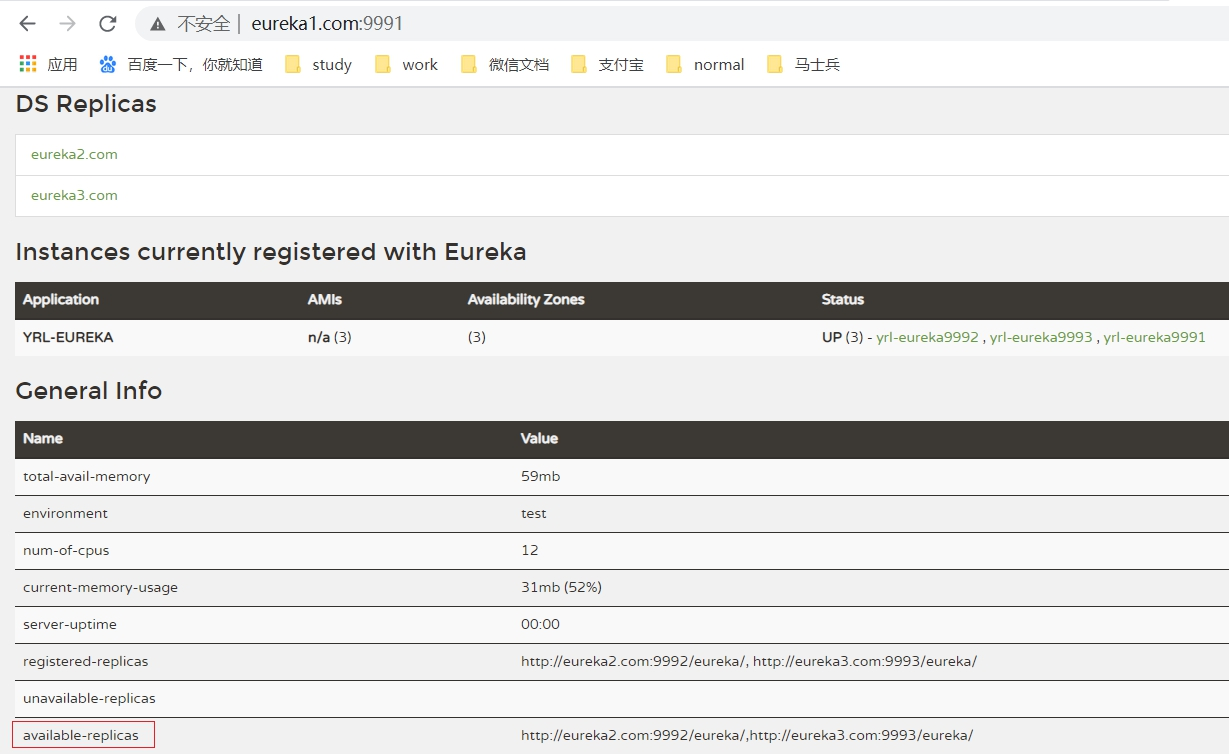
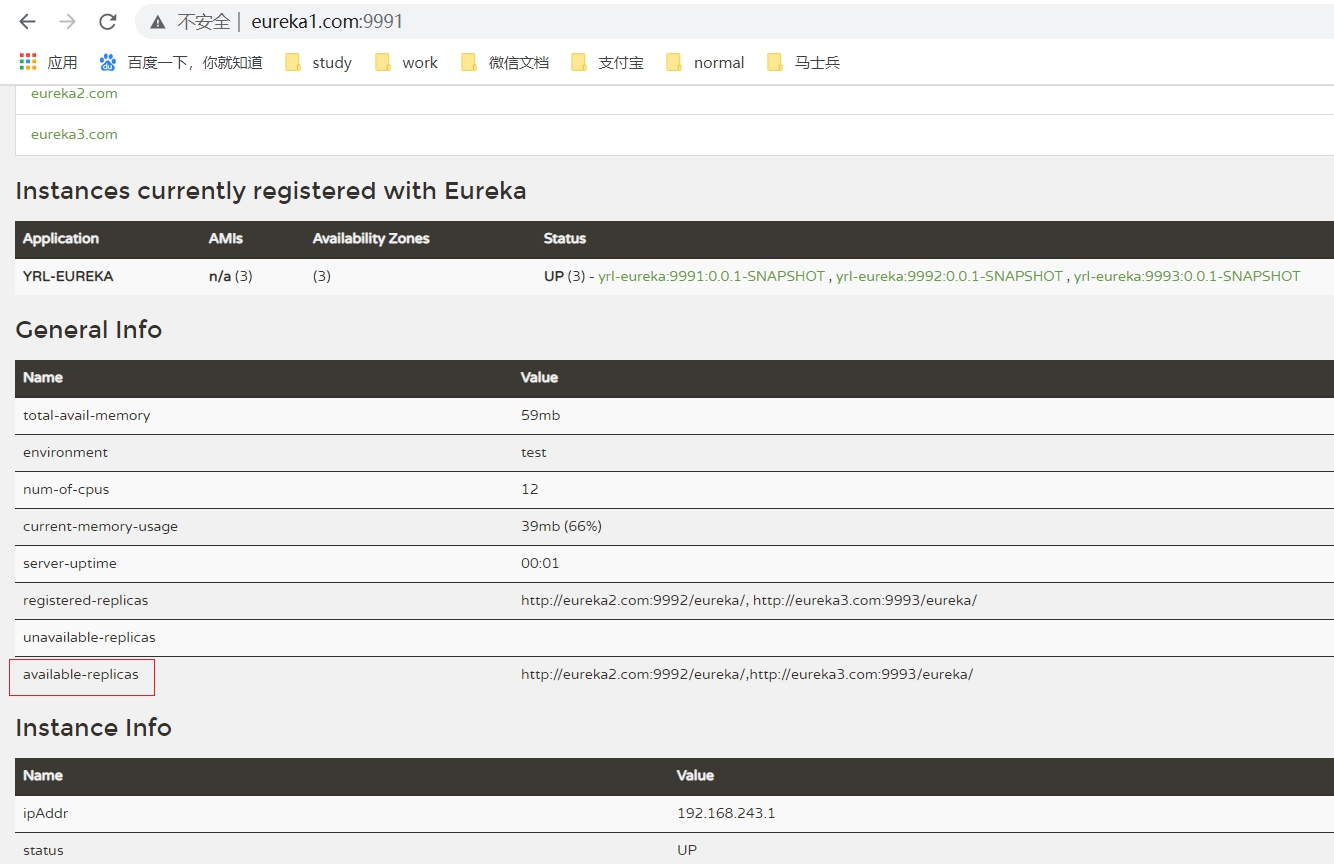
Site updated: 2020-12-26 10:41:42

Changed region(s): [[0.0, 0.0, 1.0, 0.7931], [0.0, 0.8236, 1.0, 1.0]]

diff --git a/2020/12/06/eureka集群安装/index.html b/2020/12/06/eureka集群安装/index.html
@@ -30,7 +30,7 @@
 <meta property="og:locale" content="zh_CN">
 <meta property="og:image" content="http://yrlzero.gitee.io/images/cloud/eureka/eureka%E9%9B%86%E7%BE%A4%E6%8E%A7%E5%88%B6%E5%8F%B0.jpg">
 <meta property="article:published_time" content="2020-12-06T09:12:52.599Z">
-<meta property="article:modified_time" content="2020-12-26T02:30:42.509Z">
+<meta property="article:modified_time" content="2020-12-26T02:41:25.399Z">
 <meta property="article:author" content="yrl">
 <meta property="article:tag" content="eureka">
 <meta property="article:tag" content="注册中心">
@@ -219,7 +219,7 @@
                   <i class="far fa-calendar-check"></i>
                 </span>
                 <span class="post-meta-item-text">更新于</span>
-                <time title="修改时间：2020-12-26 10:30:42" itemprop="dateModified" datetime="2020-12-26T10:30:42+08:00">2020-12-26</time>
+                <time title="修改时间：2020-12-26 10:41:25" itemprop="dateModified" datetime="2020-12-26T10:41:25+08:00">2020-12-26</time>
               </span>
             <span class="post-meta-item">
               <span class="post-meta-item-icon">
@@ -248,11 +248,11 @@
 
 <h3 id="2-启动类添加注解"><a href="#2-启动类添加注解" class="headerlink" title="2. 启动类添加注解"></a>2. 启动类添加注解</h3><figure class="highlight java"><table><tr><td class="gutter"><pre><span class="line">1</span><br></pre></td><td class="code"><pre><span class="line"><span class="meta">@EnableEurekaServer</span></span><br></pre></td></tr></table></figure>
 
-<h3 id="3-1-节点一的yml配置"><a href="#3-1-节点一的yml配置" class="headerlink" title="3.1 节点一的yml配置"></a>3.1 节点一的yml配置</h3><figure class="highlight yml"><table><tr><td class="gutter"><pre><span class="line">1</span><br><span class="line">2</span><br><span class="line">3</span><br><span class="line">4</span><br><span class="line">5</span><br><span class="line">6</span><br><span class="line">7</span><br><span class="line">8</span><br><span class="line">9</span><br><span class="line">10</span><br><span class="line">11</span><br><span class="line">12</span><br><span class="line">13</span><br><span class="line">14</span><br><span class="line">15</span><br><span class="line">16</span><br><span class="line">17</span><br><span class="line">18</span><br><span class="line">19</span><br><span class="line">20</span><br><span class="line">21</span><br><span class="line">22</span><br><span class="line">23</span><br><span class="line">24</span><br><span class="line">25</span><br><span class="line">26</span><br><span class="line">27</span><br><span class="line">28</span><br><span class="line">29</span><br><span class="line">30</span><br><span class="line">31</span><br><span class="line">32</span><br><span class="line">33</span><br><span class="line">34</span><br></pre></td><td class="code"><pre><span class="line"><span class="attr">server:</span></span><br><span class="line">  <span class="attr">port:</span> <span class="number">9991</span></span><br><span class="line">  <span class="attr">servlet:</span></span><br><span class="line">    <span class="attr">context-path:</span> <span class="string">/</span></span><br><span class="line"><span class="attr">spring:</span></span><br><span class="line">  <span class="attr">application:</span></span><br><span class="line">    <span class="attr">name:</span> <span class="string">yrl-eureka</span></span><br><span class="line">  <span class="attr">security:</span></span><br><span class="line">    <span class="attr">user:</span></span><br><span class="line">      <span class="attr">name:</span> <span class="string">eureka</span></span><br><span class="line">      <span class="attr">password:</span> <span class="string">eureka</span></span><br><span class="line"><span class="attr">eureka:</span></span><br><span class="line">  <span class="attr">instance:</span></span><br><span class="line">    <span class="attr">hostname:</span> <span class="string">eureka1.com</span> <span class="comment">#eureka服务端主机名称，每个启动的实例应该配置不同</span></span><br><span class="line"><span class="comment">#    instance-id: yrl-eureka9991 # 不加的话，默认是主机名+服务名+端口，加上之后屏蔽服务器相关信息</span></span><br><span class="line">    <span class="attr">instance-id:</span> <span class="string">$&#123;spring.cloud.client.ipAddress&#125;:$&#123;spring.application.name&#125;:$&#123;server.port&#125;:@project.version@</span> <span class="comment"># 不加的话，默认是主机名+服务名+端口，加上之后屏蔽服务器相关信息</span></span><br><span class="line">    <span class="attr">prefer-ip-address:</span> <span class="literal">true</span></span><br><span class="line">    <span class="attr">metadata-map:</span></span><br><span class="line">      <span class="attr">test:</span> <span class="number">123</span></span><br><span class="line">  <span class="attr">client:</span></span><br><span class="line">    <span class="comment"># false表示不向注册中心注册自己</span></span><br><span class="line">    <span class="attr">register-with-eureka:</span> <span class="literal">true</span></span><br><span class="line">    <span class="comment">#false 本身就是注册中心，不需要抓取服务</span></span><br><span class="line">    <span class="attr">fetch-registry:</span> <span class="literal">true</span></span><br><span class="line">    <span class="comment">#设置与注册中心交互的地址</span></span><br><span class="line">    <span class="attr">service-url:</span></span><br><span class="line">      <span class="attr">defaultZone:</span> <span class="string">http://$&#123;spring.security.user.name&#125;:$&#123;spring.security.user.password&#125;@eureka2.com:9992/eureka/,http://$&#123;spring.security.user.name&#125;:$&#123;spring.security.user.password&#125;@eureka3.com:9993/eureka/</span></span><br><span class="line">    <span class="attr">registry-fetch-interval-seconds:</span> <span class="number">30</span> <span class="comment">#表示eureka客户端间隔多久去拉取服务注册信息，默认30s，如果要迅速获取服务注册状态，可以减小该值</span></span><br><span class="line">  <span class="attr">server:</span></span><br><span class="line">    <span class="attr">enable-self-preservation:</span> <span class="literal">false</span> <span class="comment"># 心跳保护机制，默认开启，微服务少的情况下关闭，剔除挂掉的节点；微服务多的情况下开启，防止网络抖动节点心跳丢失而被剔除</span></span><br><span class="line">    <span class="attr">eviction-interval-timer-in-ms:</span> <span class="number">1000</span> <span class="comment"># 逐出实例时间,默认60 * 1000（清理无效节点的时间间隔）</span></span><br><span class="line">    <span class="attr">renewal-percent-threshold:</span> <span class="number">0.85</span> <span class="comment">#自我保护机制触发的阈值，默认0.85</span></span><br><span class="line">    <span class="attr">use-read-only-response-cache:</span> <span class="literal">false</span> <span class="comment">#是否使用从readOnly读取注册表，默认true,三级缓存机制保证高可用，但是一致性减弱了</span></span><br><span class="line">    <span class="attr">response-cache-update-interval-ms:</span> <span class="number">1000</span> <span class="comment"># readwrite 和readOnly 同步时间间隔，默认30 * 1000</span></span><br></pre></td></tr></table></figure>
+<h3 id="3-1-节点一的yml配置"><a href="#3-1-节点一的yml配置" class="headerlink" title="3.1 节点一的yml配置"></a>3.1 节点一的yml配置</h3><figure class="highlight yml"><table><tr><td class="gutter"><pre><span class="line">1</span><br><span class="line">2</span><br><span class="line">3</span><br><span class="line">4</span><br><span class="line">5</span><br><span class="line">6</span><br><span class="line">7</span><br><span class="line">8</span><br><span class="line">9</span><br><span class="line">10</span><br><span class="line">11</span><br><span class="line">12</span><br><span class="line">13</span><br><span class="line">14</span><br><span class="line">15</span><br><span class="line">16</span><br><span class="line">17</span><br><span class="line">18</span><br><span class="line">19</span><br><span class="line">20</span><br><span class="line">21</span><br><span class="line">22</span><br><span class="line">23</span><br><span class="line">24</span><br><span class="line">25</span><br><span class="line">26</span><br><span class="line">27</span><br><span class="line">28</span><br><span class="line">29</span><br><span class="line">30</span><br><span class="line">31</span><br><span class="line">32</span><br><span class="line">33</span><br><span class="line">34</span><br></pre></td><td class="code"><pre><span class="line"><span class="attr">server:</span></span><br><span class="line">  <span class="attr">port:</span> <span class="number">9991</span></span><br><span class="line">  <span class="attr">servlet:</span></span><br><span class="line">    <span class="attr">context-path:</span> <span class="string">/</span></span><br><span class="line"><span class="attr">spring:</span></span><br><span class="line">  <span class="attr">application:</span></span><br><span class="line">    <span class="attr">name:</span> <span class="string">yrl-eureka</span></span><br><span class="line">  <span class="attr">security:</span></span><br><span class="line">    <span class="attr">user:</span></span><br><span class="line">      <span class="attr">name:</span> <span class="string">eureka</span></span><br><span class="line">      <span class="attr">password:</span> <span class="string">eureka</span></span><br><span class="line"><span class="attr">eureka:</span></span><br><span class="line">  <span class="attr">instance:</span></span><br><span class="line">    <span class="attr">hostname:</span> <span class="string">eureka1.com</span> <span class="comment">#eureka服务端主机名称，每个启动的实例应该配置不同</span></span><br><span class="line"><span class="comment">#    instance-id: yrl-eureka9991 # 不加的话，默认是主机名+服务名+端口，加上之后屏蔽服务器相关信息</span></span><br><span class="line">    <span class="attr">instance-id:</span> <span class="string">$&#123;spring.application.name&#125;:$&#123;server.port&#125;:@project.version@</span> <span class="comment"># 不加的话，默认是主机名+服务名+端口，加上之后屏蔽服务器相关信息</span></span><br><span class="line">    <span class="attr">prefer-ip-address:</span> <span class="literal">false</span> <span class="comment">#该实例，相较于hostname是否优先使用IP，测试环境下使用false，生成情况下使用true</span></span><br><span class="line">    <span class="attr">metadata-map:</span></span><br><span class="line">      <span class="attr">test:</span> <span class="number">123</span></span><br><span class="line">  <span class="attr">client:</span></span><br><span class="line">    <span class="comment"># false表示不向注册中心注册自己</span></span><br><span class="line">    <span class="attr">register-with-eureka:</span> <span class="literal">true</span></span><br><span class="line">    <span class="comment">#false 本身就是注册中心，不需要抓取服务</span></span><br><span class="line">    <span class="attr">fetch-registry:</span> <span class="literal">true</span></span><br><span class="line">    <span class="comment">#设置与注册中心交互的地址</span></span><br><span class="line">    <span class="attr">service-url:</span></span><br><span class="line">      <span class="attr">defaultZone:</span> <span class="string">http://$&#123;spring.security.user.name&#125;:$&#123;spring.security.user.password&#125;@eureka2.com:9992/eureka/,http://$&#123;spring.security.user.name&#125;:$&#123;spring.security.user.password&#125;@eureka3.com:9993/eureka/</span></span><br><span class="line">    <span class="attr">registry-fetch-interval-seconds:</span> <span class="number">30</span> <span class="comment">#表示eureka客户端间隔多久去拉取服务注册信息，默认30s，如果要迅速获取服务注册状态，可以减小该值</span></span><br><span class="line">  <span class="attr">server:</span></span><br><span class="line">    <span class="attr">enable-self-preservation:</span> <span class="literal">false</span> <span class="comment"># 心跳保护机制，默认开启，微服务少的情况下关闭，剔除挂掉的节点；微服务多的情况下开启，防止网络抖动节点心跳丢失而被剔除</span></span><br><span class="line">    <span class="attr">eviction-interval-timer-in-ms:</span> <span class="number">1000</span> <span class="comment"># 逐出实例时间,默认60 * 1000（清理无效节点的时间间隔）</span></span><br><span class="line">    <span class="attr">renewal-percent-threshold:</span> <span class="number">0.85</span> <span class="comment">#自我保护机制触发的阈值，默认0.85</span></span><br><span class="line">    <span class="attr">use-read-only-response-cache:</span> <span class="literal">false</span> <span class="comment">#是否使用从readOnly读取注册表，默认true,三级缓存机制保证高可用，但是一致性减弱了</span></span><br><span class="line">    <span class="attr">response-cache-update-interval-ms:</span> <span class="number">1000</span> <span class="comment"># readwrite 和readOnly 同步时间间隔，默认30 * 1000</span></span><br></pre></td></tr></table></figure>
 
-<h3 id="3-2-节点二的yml配置"><a href="#3-2-节点二的yml配置" class="headerlink" title="3.2 节点二的yml配置"></a>3.2 节点二的yml配置</h3><figure class="highlight yml"><table><tr><td class="gutter"><pre><span class="line">1</span><br><span class="line">2</span><br><span class="line">3</span><br><span class="line">4</span><br><span class="line">5</span><br><span class="line">6</span><br><span class="line">7</span><br><span class="line">8</span><br><span class="line">9</span><br><span class="line">10</span><br><span class="line">11</span><br><span class="line">12</span><br><span class="line">13</span><br><span class="line">14</span><br><span class="line">15</span><br><span class="line">16</span><br><span class="line">17</span><br><span class="line">18</span><br><span class="line">19</span><br><span class="line">20</span><br><span class="line">21</span><br><span class="line">22</span><br><span class="line">23</span><br><span class="line">24</span><br><span class="line">25</span><br><span class="line">26</span><br><span class="line">27</span><br><span class="line">28</span><br><span class="line">29</span><br><span class="line">30</span><br><span class="line">31</span><br><span class="line">32</span><br><span class="line">33</span><br><span class="line">34</span><br></pre></td><td class="code"><pre><span class="line"><span class="attr">server:</span></span><br><span class="line">  <span class="attr">port:</span> <span class="number">9992</span></span><br><span class="line">  <span class="attr">servlet:</span></span><br><span class="line">    <span class="attr">context-path:</span> <span class="string">/</span></span><br><span class="line"><span class="attr">spring:</span></span><br><span class="line">  <span class="attr">application:</span></span><br><span class="line">    <span class="attr">name:</span> <span class="string">yrl-eureka</span></span><br><span class="line">  <span class="attr">security:</span></span><br><span class="line">    <span class="attr">user:</span></span><br><span class="line">      <span class="attr">name:</span> <span class="string">eureka</span></span><br><span class="line">      <span class="attr">password:</span> <span class="string">eureka</span></span><br><span class="line"><span class="attr">eureka:</span></span><br><span class="line">  <span class="attr">instance:</span></span><br><span class="line">    <span class="attr">hostname:</span> <span class="string">eureka2.com</span> <span class="comment">#eureka服务端主机名称，每个启动的实例应该配置不同</span></span><br><span class="line"><span class="comment">#    instance-id: yrl-eureka9992 # 不加的话，默认是主机名+服务名+端口，加上之后屏蔽服务器相关信息</span></span><br><span class="line">    <span class="attr">instance-id:</span> <span class="string">$&#123;spring.cloud.client.ipAddress&#125;:$&#123;spring.application.name&#125;:$&#123;server.port&#125;:@project.version@</span> <span class="comment"># 不加的话，默认是主机名+服务名+端口，加上之后屏蔽服务器相关信息</span></span><br><span class="line">    <span class="attr">prefer-ip-address:</span> <span class="literal">true</span></span><br><span class="line">    <span class="attr">metadata-map:</span></span><br><span class="line">      <span class="attr">test:</span> <span class="number">456</span></span><br><span class="line">  <span class="attr">client:</span></span><br><span class="line">    <span class="comment"># false表示不向注册中心注册自己</span></span><br><span class="line">    <span class="attr">register-with-eureka:</span> <span class="literal">true</span></span><br><span class="line">    <span class="comment">#false 本身就是注册中心，不需要抓取服务</span></span><br><span class="line">    <span class="attr">fetch-registry:</span> <span class="literal">true</span></span><br><span class="line">    <span class="comment">#设置与注册中心交互的地址</span></span><br><span class="line">    <span class="attr">service-url:</span></span><br><span class="line">      <span class="attr">defaultZone:</span> <span class="string">http://$&#123;spring.security.user.name&#125;:$&#123;spring.security.user.password&#125;@eureka3.com:9993/eureka/,http://$&#123;spring.security.user.name&#125;:$&#123;spring.security.user.password&#125;@eureka1.com:9991/eureka/</span></span><br><span class="line">    <span class="attr">registry-fetch-interval-seconds:</span> <span class="number">30</span> <span class="comment">#表示eureka客户端间隔多久去拉取服务注册信息，默认30s，如果要迅速获取服务注册状态，可以减小该值</span></span><br><span class="line">  <span class="attr">server:</span></span><br><span class="line">    <span class="attr">enable-self-preservation:</span> <span class="literal">false</span> <span class="comment"># 心跳保护机制，默认开启，微服务少的情况下关闭，剔除挂掉的节点；微服务多的情况下开启，防止网络抖动节点心跳丢失而被剔除</span></span><br><span class="line">    <span class="attr">eviction-interval-timer-in-ms:</span> <span class="number">1000</span> <span class="comment"># 逐出实例时间,默认60 * 1000（清理无效节点的时间间隔）</span></span><br><span class="line">    <span class="attr">renewal-percent-threshold:</span> <span class="number">0.85</span> <span class="comment">#自我保护机制触发的阈值，默认0.85</span></span><br><span class="line">    <span class="attr">use-read-only-response-cache:</span> <span class="literal">false</span> <span class="comment">#是否使用从readOnly读取注册表，默认true,三级缓存机制保证高可用，但是一致性减弱了</span></span><br><span class="line">    <span class="attr">response-cache-update-interval-ms:</span> <span class="number">1000</span> <span class="comment"># readwrite 和readOnly 同步时间间隔，默认30 * 1000</span></span><br></pre></td></tr></table></figure>
+<h3 id="3-2-节点二的yml配置"><a href="#3-2-节点二的yml配置" class="headerlink" title="3.2 节点二的yml配置"></a>3.2 节点二的yml配置</h3><figure class="highlight yml"><table><tr><td class="gutter"><pre><span class="line">1</span><br><span class="line">2</span><br><span class="line">3</span><br><span class="line">4</span><br><span class="line">5</span><br><span class="line">6</span><br><span class="line">7</span><br><span class="line">8</span><br><span class="line">9</span><br><span class="line">10</span><br><span class="line">11</span><br><span class="line">12</span><br><span class="line">13</span><br><span class="line">14</span><br><span class="line">15</span><br><span class="line">16</span><br><span class="line">17</span><br><span class="line">18</span><br><span class="line">19</span><br><span class="line">20</span><br><span class="line">21</span><br><span class="line">22</span><br><span class="line">23</span><br><span class="line">24</span><br><span class="line">25</span><br><span class="line">26</span><br><span class="line">27</span><br><span class="line">28</span><br><span class="line">29</span><br><span class="line">30</span><br><span class="line">31</span><br><span class="line">32</span><br><span class="line">33</span><br><span class="line">34</span><br></pre></td><td class="code"><pre><span class="line"><span class="attr">server:</span></span><br><span class="line">  <span class="attr">port:</span> <span class="number">9992</span></span><br><span class="line">  <span class="attr">servlet:</span></span><br><span class="line">    <span class="attr">context-path:</span> <span class="string">/</span></span><br><span class="line"><span class="attr">spring:</span></span><br><span class="line">  <span class="attr">application:</span></span><br><span class="line">    <span class="attr">name:</span> <span class="string">yrl-eureka</span></span><br><span class="line">  <span class="attr">security:</span></span><br><span class="line">    <span class="attr">user:</span></span><br><span class="line">      <span class="attr">name:</span> <span class="string">eureka</span></span><br><span class="line">      <span class="attr">password:</span> <span class="string">eureka</span></span><br><span class="line"><span class="attr">eureka:</span></span><br><span class="line">  <span class="attr">instance:</span></span><br><span class="line">    <span class="attr">hostname:</span> <span class="string">eureka2.com</span> <span class="comment">#eureka服务端主机名称，每个启动的实例应该配置不同</span></span><br><span class="line"><span class="comment">#    instance-id: yrl-eureka9992 # 不加的话，默认是主机名+服务名+端口，加上之后屏蔽服务器相关信息</span></span><br><span class="line">    <span class="attr">instance-id:</span> <span class="string">$&#123;spring.application.name&#125;:$&#123;server.port&#125;:@project.version@</span> <span class="comment"># 不加的话，默认是主机名+服务名+端口，加上之后屏蔽服务器相关信息</span></span><br><span class="line">    <span class="attr">prefer-ip-address:</span> <span class="literal">false</span> <span class="comment">#该实例，相较于hostname是否优先使用IP，测试环境下使用false，生成情况下使用true</span></span><br><span class="line">    <span class="attr">metadata-map:</span></span><br><span class="line">      <span class="attr">test:</span> <span class="number">456</span></span><br><span class="line">  <span class="attr">client:</span></span><br><span class="line">    <span class="comment"># false表示不向注册中心注册自己</span></span><br><span class="line">    <span class="attr">register-with-eureka:</span> <span class="literal">true</span></span><br><span class="line">    <span class="comment">#false 本身就是注册中心，不需要抓取服务</span></span><br><span class="line">    <span class="attr">fetch-registry:</span> <span class="literal">true</span></span><br><span class="line">    <span class="comment">#设置与注册中心交互的地址</span></span><br><span class="line">    <span class="attr">service-url:</span></span><br><span class="line">      <span class="attr">defaultZone:</span> <span class="string">http://$&#123;spring.security.user.name&#125;:$&#123;spring.security.user.password&#125;@eureka3.com:9993/eureka/,http://$&#123;spring.security.user.name&#125;:$&#123;spring.security.user.password&#125;@eureka1.com:9991/eureka/</span></span><br><span class="line">    <span class="attr">registry-fetch-interval-seconds:</span> <span class="number">30</span> <span class="comment">#表示eureka客户端间隔多久去拉取服务注册信息，默认30s，如果要迅速获取服务注册状态，可以减小该值</span></span><br><span class="line">  <span class="attr">server:</span></span><br><span class="line">    <span class="attr">enable-self-preservation:</span> <span class="literal">false</span> <span class="comment"># 心跳保护机制，默认开启，微服务少的情况下关闭，剔除挂掉的节点；微服务多的情况下开启，防止网络抖动节点心跳丢失而被剔除</span></span><br><span class="line">    <span class="attr">eviction-interval-timer-in-ms:</span> <span class="number">1000</span> <span class="comment"># 逐出实例时间,默认60 * 1000（清理无效节点的时间间隔）</span></span><br><span class="line">    <span class="attr">renewal-percent-threshold:</span> <span class="number">0.85</span> <span class="comment">#自我保护机制触发的阈值，默认0.85</span></span><br><span class="line">    <span class="attr">use-read-only-response-cache:</span> <span class="literal">false</span> <span class="comment">#是否使用从readOnly读取注册表，默认true,三级缓存机制保证高可用，但是一致性减弱了</span></span><br><span class="line">    <span class="attr">response-cache-update-interval-ms:</span> <span class="number">1000</span> <span class="comment"># readwrite 和readOnly 同步时间间隔，默认30 * 1000</span></span><br></pre></td></tr></table></figure>
 
-<h3 id="3-3-节点三的yml配置"><a href="#3-3-节点三的yml配置" class="headerlink" title="3.3 节点三的yml配置"></a>3.3 节点三的yml配置</h3><figure class="highlight yml"><table><tr><td class="gutter"><pre><span class="line">1</span><br><span class="line">2</span><br><span class="line">3</span><br><span class="line">4</span><br><span class="line">5</span><br><span class="line">6</span><br><span class="line">7</span><br><span class="line">8</span><br><span class="line">9</span><br><span class="line">10</span><br><span class="line">11</span><br><span class="line">12</span><br><span class="line">13</span><br><span class="line">14</span><br><span class="line">15</span><br><span class="line">16</span><br><span class="line">17</span><br><span class="line">18</span><br><span class="line">19</span><br><span class="line">20</span><br><span class="line">21</span><br><span class="line">22</span><br><span class="line">23</span><br><span class="line">24</span><br><span class="line">25</span><br><span class="line">26</span><br><span class="line">27</span><br><span class="line">28</span><br><span class="line">29</span><br><span class="line">30</span><br><span class="line">31</span><br><span class="line">32</span><br><span class="line">33</span><br><span class="line">34</span><br></pre></td><td class="code"><pre><span class="line"><span class="attr">server:</span></span><br><span class="line">  <span class="attr">port:</span> <span class="number">9993</span></span><br><span class="line">  <span class="attr">servlet:</span></span><br><span class="line">    <span class="attr">context-path:</span> <span class="string">/</span></span><br><span class="line"><span class="attr">spring:</span></span><br><span class="line">  <span class="attr">application:</span></span><br><span class="line">    <span class="attr">name:</span> <span class="string">yrl-eureka</span></span><br><span class="line">  <span class="attr">security:</span></span><br><span class="line">    <span class="attr">user:</span></span><br><span class="line">      <span class="attr">name:</span> <span class="string">eureka</span></span><br><span class="line">      <span class="attr">password:</span> <span class="string">eureka</span></span><br><span class="line"><span class="attr">eureka:</span></span><br><span class="line">  <span class="attr">instance:</span></span><br><span class="line">    <span class="attr">hostname:</span> <span class="string">eureka3.com</span> <span class="comment">#eureka服务端主机名称，每个启动的实例应该配置不同</span></span><br><span class="line"><span class="comment">#    instance-id: yrl-eureka9993 # 不加的话，默认是主机名+服务名+端口，加上之后屏蔽服务器相关信息</span></span><br><span class="line">    <span class="attr">instance-id:</span> <span class="string">$&#123;spring.application.name&#125;:$&#123;server.port&#125;:@project.version@</span> <span class="comment"># 不加的话，默认是主机名+服务名+端口，加上之后屏蔽服务器相关信息</span></span><br><span class="line">    <span class="attr">prefer-ip-address:</span> <span class="literal">true</span></span><br><span class="line">    <span class="attr">metadata-map:</span></span><br><span class="line">      <span class="attr">test:</span> <span class="number">789</span></span><br><span class="line">  <span class="attr">client:</span></span><br><span class="line">    <span class="comment"># false表示不向注册中心注册自己</span></span><br><span class="line">    <span class="attr">register-with-eureka:</span> <span class="literal">true</span></span><br><span class="line">    <span class="comment">#false 本身就是注册中心，不需要抓取服务</span></span><br><span class="line">    <span class="attr">fetch-registry:</span> <span class="literal">true</span></span><br><span class="line">    <span class="comment">#设置与注册中心交互的地址</span></span><br><span class="line">    <span class="attr">service-url:</span></span><br><span class="line">      <span class="attr">defaultZone:</span> <span class="string">http://$&#123;spring.security.user.name&#125;:$&#123;spring.security.user.password&#125;@eureka1.com:9991/eureka/,http://$&#123;spring.security.user.name&#125;:$&#123;spring.security.user.password&#125;@eureka2.com:9992/eureka/</span></span><br><span class="line">    <span class="attr">registry-fetch-interval-seconds:</span> <span class="number">30</span> <span class="comment">#表示eureka客户端间隔多久去拉取服务注册信息，默认30s，如果要迅速获取服务注册状态，可以减小该值</span></span><br><span class="line">  <span class="attr">server:</span></span><br><span class="line">    <span class="attr">enable-self-preservation:</span> <span class="literal">false</span> <span class="comment"># 心跳保护机制，默认开启，微服务少的情况下关闭，剔除挂掉的节点；微服务多的情况下开启，防止网络抖动节点心跳丢失而被剔除</span></span><br><span class="line">    <span class="attr">eviction-interval-timer-in-ms:</span> <span class="number">1000</span> <span class="comment"># 逐出实例时间,默认60 * 1000（清理无效节点的时间间隔）</span></span><br><span class="line">    <span class="attr">renewal-percent-threshold:</span> <span class="number">0.85</span> <span class="comment">#自我保护机制触发的阈值，默认0.85</span></span><br><span class="line">    <span class="attr">use-read-only-response-cache:</span> <span class="literal">false</span> <span class="comment">#是否使用从readOnly读取注册表，默认true,三级缓存机制保证高可用，但是一致性减弱了</span></span><br><span class="line">    <span class="attr">response-cache-update-interval-ms:</span> <span class="number">1000</span> <span class="comment"># readwrite 和readOnly 同步时间间隔，默认30 * 1000</span></span><br></pre></td></tr></table></figure>
+<h3 id="3-3-节点三的yml配置"><a href="#3-3-节点三的yml配置" class="headerlink" title="3.3 节点三的yml配置"></a>3.3 节点三的yml配置</h3><figure class="highlight yml"><table><tr><td class="gutter"><pre><span class="line">1</span><br><span class="line">2</span><br><span class="line">3</span><br><span class="line">4</span><br><span class="line">5</span><br><span class="line">6</span><br><span class="line">7</span><br><span class="line">8</span><br><span class="line">9</span><br><span class="line">10</span><br><span class="line">11</span><br><span class="line">12</span><br><span class="line">13</span><br><span class="line">14</span><br><span class="line">15</span><br><span class="line">16</span><br><span class="line">17</span><br><span class="line">18</span><br><span class="line">19</span><br><span class="line">20</span><br><span class="line">21</span><br><span class="line">22</span><br><span class="line">23</span><br><span class="line">24</span><br><span class="line">25</span><br><span class="line">26</span><br><span class="line">27</span><br><span class="line">28</span><br><span class="line">29</span><br><span class="line">30</span><br><span class="line">31</span><br><span class="line">32</span><br><span class="line">33</span><br><span class="line">34</span><br></pre></td><td class="code"><pre><span class="line"><span class="attr">server:</span></span><br><span class="line">  <span class="attr">port:</span> <span class="number">9993</span></span><br><span class="line">  <span class="attr">servlet:</span></span><br><span class="line">    <span class="attr">context-path:</span> <span class="string">/</span></span><br><span class="line"><span class="attr">spring:</span></span><br><span class="line">  <span class="attr">application:</span></span><br><span class="line">    <span class="attr">name:</span> <span class="string">yrl-eureka</span></span><br><span class="line">  <span class="attr">security:</span></span><br><span class="line">    <span class="attr">user:</span></span><br><span class="line">      <span class="attr">name:</span> <span class="string">eureka</span></span><br><span class="line">      <span class="attr">password:</span> <span class="string">eureka</span></span><br><span class="line"><span class="attr">eureka:</span></span><br><span class="line">  <span class="attr">instance:</span></span><br><span class="line">    <span class="attr">hostname:</span> <span class="string">eureka3.com</span> <span class="comment">#eureka服务端主机名称，每个启动的实例应该配置不同</span></span><br><span class="line"><span class="comment">#    instance-id: yrl-eureka9993 # 不加的话，默认是主机名+服务名+端口，加上之后屏蔽服务器相关信息</span></span><br><span class="line">    <span class="attr">instance-id:</span> <span class="string">$&#123;spring.application.name&#125;:$&#123;server.port&#125;:@project.version@</span> <span class="comment"># 不加的话，默认是主机名+服务名+端口，加上之后屏蔽服务器相关信息</span></span><br><span class="line">    <span class="attr">prefer-ip-address:</span> <span class="literal">false</span> <span class="comment">#该实例，相较于hostname是否优先使用IP，测试环境下使用false，生成情况下使用true</span></span><br><span class="line">    <span class="attr">metadata-map:</span></span><br><span class="line">      <span class="attr">test:</span> <span class="number">789</span></span><br><span class="line">  <span class="attr">client:</span></span><br><span class="line">    <span class="comment"># false表示不向注册中心注册自己</span></span><br><span class="line">    <span class="attr">register-with-eureka:</span> <span class="literal">true</span></span><br><span class="line">    <span class="comment">#false 本身就是注册中心，不需要抓取服务</span></span><br><span class="line">    <span class="attr">fetch-registry:</span> <span class="literal">true</span></span><br><span class="line">    <span class="comment">#设置与注册中心交互的地址</span></span><br><span class="line">    <span class="attr">service-url:</span></span><br><span class="line">      <span class="attr">defaultZone:</span> <span class="string">http://$&#123;spring.security.user.name&#125;:$&#123;spring.security.user.password&#125;@eureka1.com:9991/eureka/,http://$&#123;spring.security.user.name&#125;:$&#123;spring.security.user.password&#125;@eureka2.com:9992/eureka/</span></span><br><span class="line">    <span class="attr">registry-fetch-interval-seconds:</span> <span class="number">30</span> <span class="comment">#表示eureka客户端间隔多久去拉取服务注册信息，默认30s，如果要迅速获取服务注册状态，可以减小该值</span></span><br><span class="line">  <span class="attr">server:</span></span><br><span class="line">    <span class="attr">enable-self-preservation:</span> <span class="literal">false</span> <span class="comment"># 心跳保护机制，默认开启，微服务少的情况下关闭，剔除挂掉的节点；微服务多的情况下开启，防止网络抖动节点心跳丢失而被剔除</span></span><br><span class="line">    <span class="attr">eviction-interval-timer-in-ms:</span> <span class="number">1000</span> <span class="comment"># 逐出实例时间,默认60 * 1000（清理无效节点的时间间隔）</span></span><br><span class="line">    <span class="attr">renewal-percent-threshold:</span> <span class="number">0.85</span> <span class="comment">#自我保护机制触发的阈值，默认0.85</span></span><br><span class="line">    <span class="attr">use-read-only-response-cache:</span> <span class="literal">false</span> <span class="comment">#是否使用从readOnly读取注册表，默认true,三级缓存机制保证高可用，但是一致性减弱了</span></span><br><span class="line">    <span class="attr">response-cache-update-interval-ms:</span> <span class="number">1000</span> <span class="comment"># readwrite 和readOnly 同步时间间隔，默认30 * 1000</span></span><br></pre></td></tr></table></figure>
 
 <h2 id="二、-客户端"><a href="#二、-客户端" class="headerlink" title="二、 客户端"></a>二、 客户端</h2><h3 id="1-依赖-1"><a href="#1-依赖-1" class="headerlink" title="1. 依赖"></a>1. 依赖</h3><figure class="highlight plain"><table><tr><td class="gutter"><pre><span class="line">1</span><br><span class="line">2</span><br><span class="line">3</span><br><span class="line">4</span><br><span class="line">5</span><br><span class="line">6</span><br><span class="line">7</span><br><span class="line">8</span><br><span class="line">9</span><br><span class="line">10</span><br></pre></td><td class="code"><pre><span class="line">&lt;!-- eureka 客户端依赖 --&gt;</span><br><span class="line">&lt;dependency&gt;</span><br><span class="line">    &lt;groupId&gt;org.springframework.cloud&lt;&#x2F;groupId&gt;</span><br><span class="line">    &lt;artifactId&gt;spring-cloud-starter-netflix-eureka-client&lt;&#x2F;artifactId&gt;</span><br><span class="line">&lt;&#x2F;dependency&gt;</span><br><span class="line">        &lt;!--健康检查--&gt;</span><br><span class="line">&lt;dependency&gt;</span><br><span class="line">    &lt;groupId&gt;org.springframework.boot&lt;&#x2F;groupId&gt;</span><br><span class="line">    &lt;artifactId&gt;spring-boot-starter-actuator&lt;&#x2F;artifactId&gt;</span><br><span class="line">&lt;&#x2F;dependency&gt;</span><br></pre></td></tr></table></figure>
 

diff --git a/index.html b/index.html
@@ -907,7 +907,7 @@
                   <i class="far fa-calendar-check"></i>
                 </span>
                 <span class="post-meta-item-text">更新于</span>
-                <time title="修改时间：2020-12-26 10:30:42" itemprop="dateModified" datetime="2020-12-26T10:30:42+08:00">2020-12-26</time>
+                <time title="修改时间：2020-12-26 10:41:25" itemprop="dateModified" datetime="2020-12-26T10:41:25+08:00">2020-12-26</time>
               </span>
             <span class="post-meta-item">
               <span class="post-meta-item-icon">

diff --git a/css/main.css b/css/main.css
@@ -1176,7 +1176,7 @@ pre .javascript .function {
 }
 .links-of-author a::before,
 .links-of-author span.exturl::before {
-  background: #ff95e2;
+  background: #63ffff;
   border-radius: 50%;
   content: ' ';
   display: inline-block;
